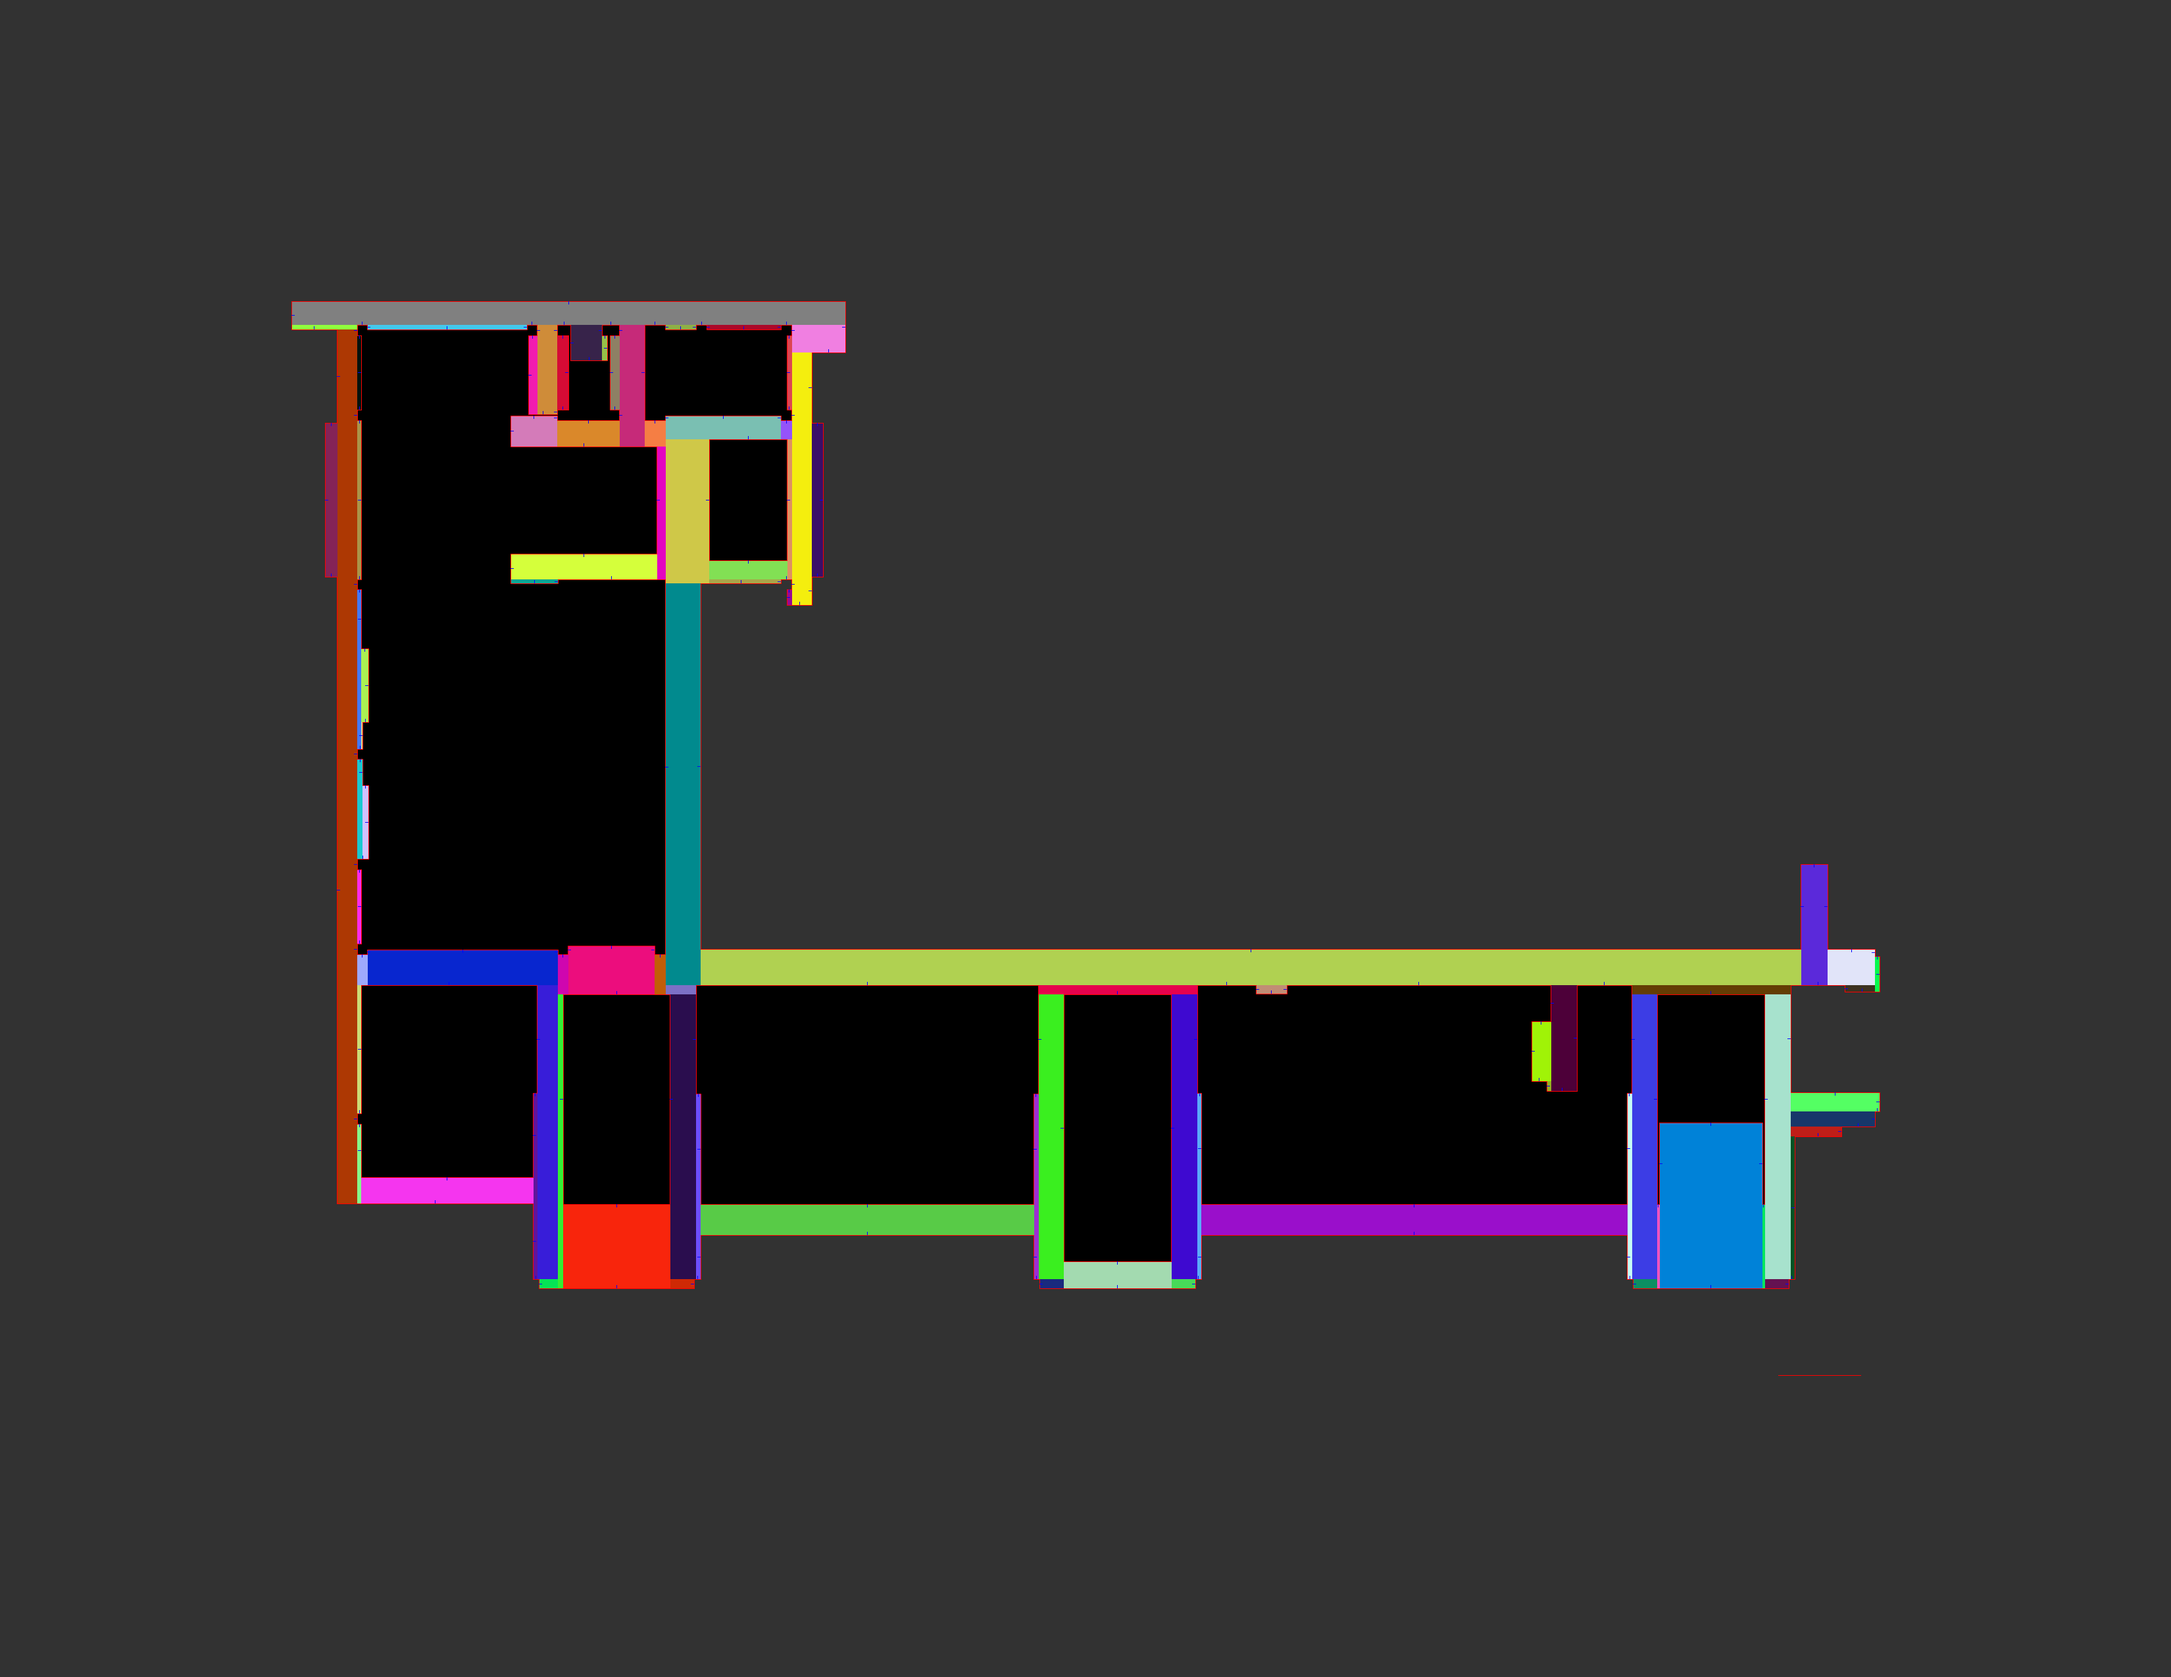
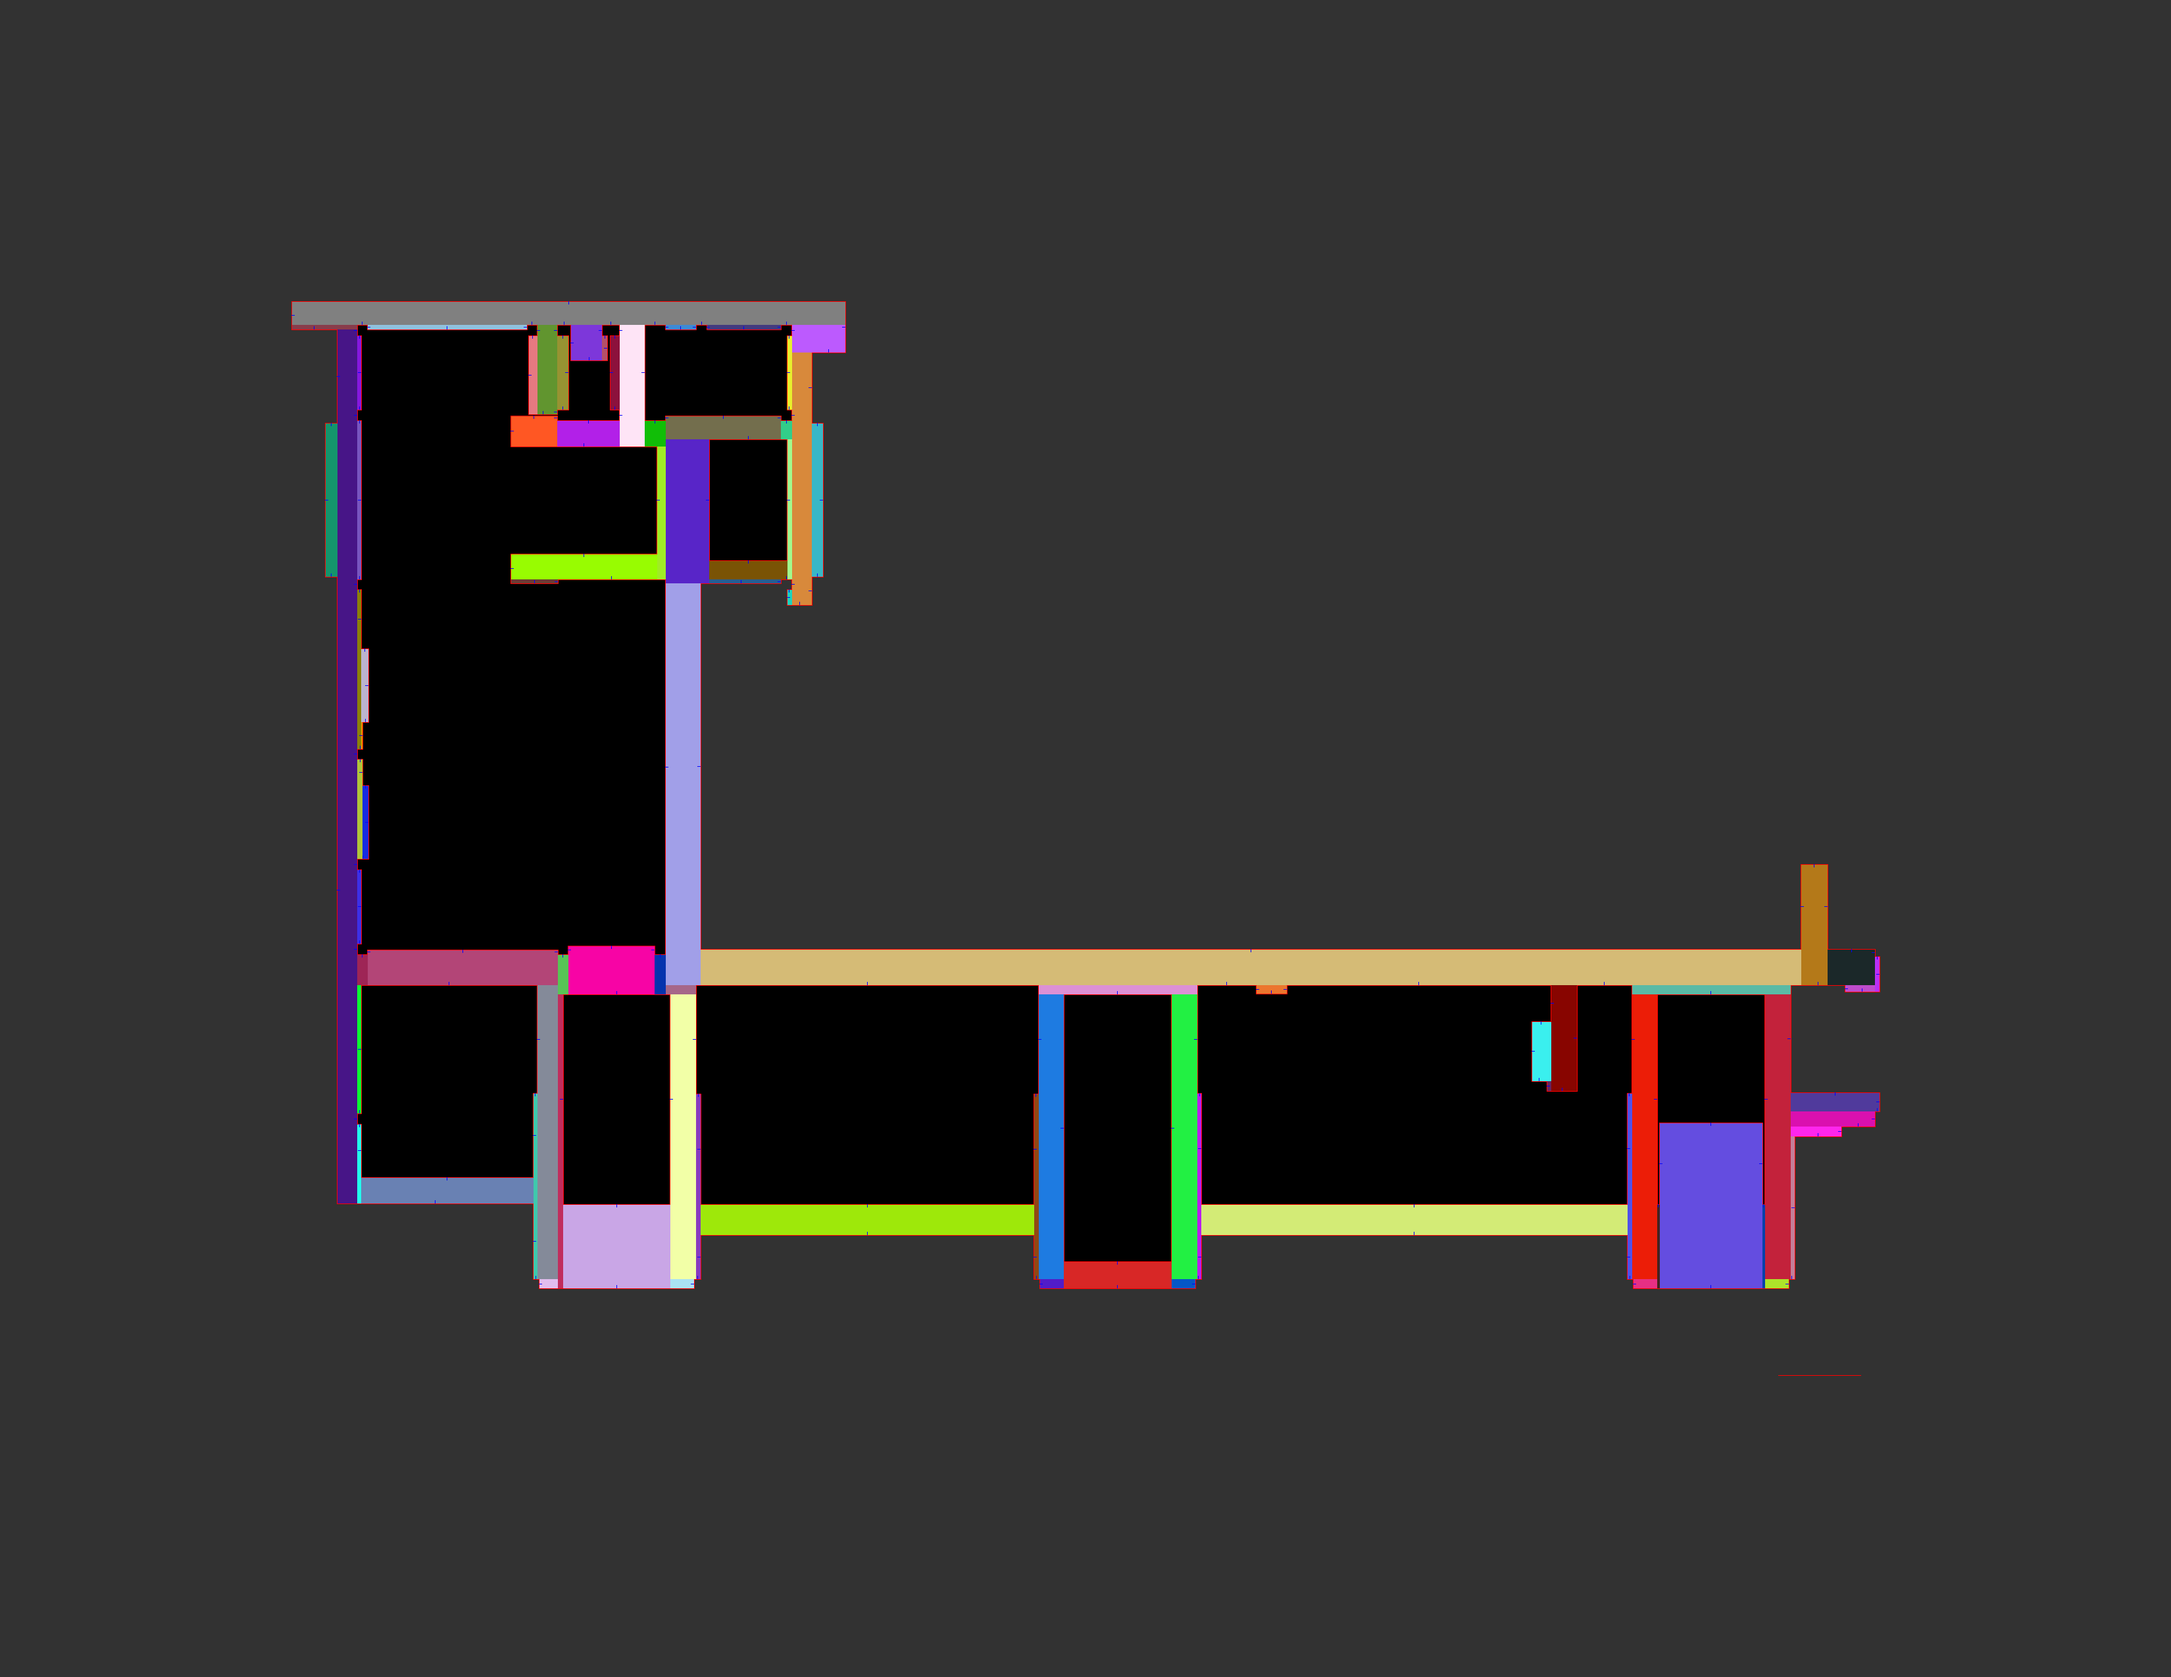
- Added separate floor plane

Changed region(s): [[0.1248, 0.1859, 0.8739, 0.7745]]

diff --git a/sim/SDFGenerator.py b/sim/SDFGenerator.py
@@ -3,8 +3,6 @@ from lxml import etree
 
 # Splitting up the responsibilities for the MeshGenerator.Generator so it doesn't become a God object anti-pattern
 pose_template = "{} {} {} {} {} {}"
-normal_template = "{} {} {}"
-size_template = "{} {}"
 wall_template = "wall_{}"
 vec2_template = "{} {}"
 vec3_template = "{} {} {}"
@@ -27,8 +25,10 @@ class SDFGenerator:
         self.sdf = etree.Element("sdf", version="1.6")
         self.world = etree.Element("world", name="building_model")
         self.walls_model = etree.Element("model", name="walls")
+        self.floor_model = etree.Element("model", name="floors")
         self.sdf.append(self.world)
         self.world.append(self.walls_model)
+        self.world.append(self.floor_model)
         self.wall_count = 0
 
     def write_file(self):
@@ -39,7 +39,7 @@ class SDFGenerator:
     def add_walls(self, centre, walls_obj_file):
         self.walls_model.append(create_element("static", _text="1"))
         self.walls_model.append(create_element("pose", frame="walls_frame",
-                                               _text=pose_template.format(centre[0]+350., centre[1]-200., centre[2], 0., 0., 0.)))
+                                               _text=pose_template.format(centre[0]+350./32, centre[1]-200./32, centre[2], 0., 0., 0.)))
 
         # Write the visual link
         link = create_element("link", name="walls_link")
@@ -52,12 +52,12 @@ class SDFGenerator:
         # Add the inertia tensor
         inertia = create_element("inertia")
         inertial.append(inertia)
-        inertia.append(create_element("ixx", _text="0.166667"))
+        inertia.append(create_element("ixx", _text="1."))
         inertia.append(create_element("ixy", _text="0."))
         inertia.append(create_element("ixz", _text="0."))
-        inertia.append(create_element("iyy", _text="0.166667"))
+        inertia.append(create_element("iyy", _text="1."))
         inertia.append(create_element("iyz", _text="0."))
-        inertia.append(create_element("izz", _text="0.166667"))
+        inertia.append(create_element("izz", _text="1."))
 
         visual = create_element("visual", name="walls_mesh")
         link.append(visual)
@@ -65,7 +65,7 @@ class SDFGenerator:
         visual.append(geometry)
         mesh = create_element("mesh")
         geometry.append(mesh)
-        scale = 4000.
+        scale = 125.
         mesh.append(create_element("scale", _text=vec3_template.format(scale, scale, scale)))
         mesh.append(create_element("uri", _text=walls_obj_file))
 
@@ -79,7 +79,7 @@ class SDFGenerator:
         collision.append(geometry)
         mesh = create_element("mesh")
         geometry.append(mesh)
-        scale = 4000.
+        scale = 125.
         mesh.append(create_element("scale", _text=vec3_template.format(scale, scale, scale)))
         mesh.append(create_element("uri", _text=walls_obj_file))
 
@@ -105,12 +105,12 @@ class SDFGenerator:
 
         inertia = create_element("inertia")
         inertial.append(inertia)
-        inertia.append(create_element("ixx", _text="0.166667"))
+        inertia.append(create_element("ixx", _text="1."))
         inertia.append(create_element("ixy", _text="0."))
         inertia.append(create_element("ixz", _text="0."))
-        inertia.append(create_element("iyy", _text="0.166667"))
+        inertia.append(create_element("iyy", _text="1."))
         inertia.append(create_element("iyz", _text="0."))
-        inertia.append(create_element("izz", _text="0.166667"))
+        inertia.append(create_element("izz", _text="1."))
 
         collision = create_element("collision", name=name+"_collision")
         link.append(collision)
@@ -118,18 +118,18 @@ class SDFGenerator:
         collision.append(geometry)
         plane = create_element("plane")
         geometry.append(plane)
-        plane.append(create_element("normal", _text=normal_template.format(normal[0], normal[1], 0)))
-        plane.append(create_element("size", _text=size_template.format(dim[0], dim[1])))
+        plane.append(create_element("normal", _text=vec3_template.format(normal[0], normal[1], 0)))
+        plane.append(create_element("size", _text=vec2_template.format(dim[0], dim[1])))
         self.wall_count += 1
 
     def add_floors(self, centre, normal, dim, floor_obj_file):
-        self.floors_model.append(create_element("static", _text="1"))
-        self.floors_model.append(create_element("pose", frame="floors_frame",
+        self.floor_model.append(create_element("static", _text="1"))
+        self.floor_model.append(create_element("pose", frame="floors_frame",
                                                 _text=pose_template.format(centre[0], centre[1], centre[2], 0., 0., 0.)))
 
         # Write the visual link
         link = create_element("link", name="floors_link")
-        self.floors_model.append(link)
+        self.floor_model.append(link)
         inertial = create_element("inertial")
         link.append(inertial)
 
@@ -138,22 +138,31 @@ class SDFGenerator:
         # Add the inertia tensor
         inertia = create_element("inertia")
         inertial.append(inertia)
-        inertia.append(create_element("ixx", _text="0.166667"))
+        inertia.append(create_element("ixx", _text="1."))
         inertia.append(create_element("ixy", _text="0."))
         inertia.append(create_element("ixz", _text="0."))
-        inertia.append(create_element("iyy", _text="0.166667"))
+        inertia.append(create_element("iyy", _text="1."))
         inertia.append(create_element("iyz", _text="0."))
-        inertia.append(create_element("izz", _text="0.166667"))
+        inertia.append(create_element("izz", _text="1."))
 
-        visual = create_element("visual", name="floors_mesh")
+        #visual = create_element("visual", name="floors_mesh")
+        #link.append(visual)
+        #geometry = create_element("geometry")
+        #visual.append(geometry)
+        #mesh = create_element("mesh")
+        #geometry.append(mesh)
+        #scale = 1.
+        #mesh.append(create_element("scale", _text=vec3_template.format(scale, scale, scale)))
+        #mesh.append(create_element("uri", _text=floor_obj_file))
+
+        visual = create_element("visual", name="floor")
         link.append(visual)
         geometry = create_element("geometry")
         visual.append(geometry)
-        mesh = create_element("mesh")
-        geometry.append(mesh)
-        scale = 1.
-        mesh.append(create_element("scale", _text=vec3_template.format(scale, scale, scale)))
-        mesh.append(create_element("uri", _text=floor_obj_file))
+        plane = create_element("plane")
+        geometry.append(plane)
+        plane.append(create_element("normal", _text=vec3_template.format(normal[0], normal[1], normal[2])))
+        plane.append(create_element("size", _text=vec2_template.format(dim[0], dim[1])))
 
         collision = create_element("collision", name="floors_collision")
         link.append(collision)
@@ -161,8 +170,8 @@ class SDFGenerator:
         collision.append(geometry)
         plane = create_element("plane")
         geometry.append(plane)
-        plane.append(create_element("normal", _text=normal_template.format(normal[0], normal[1], normal[2])))
-        plane.append(create_element("size", _text=size_template.format(dim[0], dim[1])))
+        plane.append(create_element("normal", _text=vec3_template.format(normal[0], normal[1], normal[2])))
+        plane.append(create_element("size", _text=vec2_template.format(dim[0], dim[1])))
 
     def add_extra(self):
         """This extra stuff is required to load the SDF into Gazebo for testing"""

diff --git a/sim/MeshGenerator.py b/sim/MeshGenerator.py
@@ -695,10 +695,12 @@ class Generator:
     def export_to_sdf(self, filename="assets/output.sdf"):
         sdf = SDFGenerator.SDFGenerator(filename)
         sdf.add_walls([0, 0, 0], self.strip_name(filename) + ".obj")
+        sdf.add_floors([0, 0, 0], [0, 0, 1], [self.size[0], self.size[1]], self.strip_name(filename) + ".obj")
 
-        dim = max(self.size[0], self.size[1])
-        inv_dim = 1./dim
-        wall_height = inv_dim * 40.
+
+        #dim = max(self.size[0], self.size[1])
+        #inv_dim = 1./dim
+        #wall_height = inv_dim * 40.
 
         # Export Walls
         #for i in range(len(self.lines)):
@@ -711,6 +713,6 @@ class Generator:
 
         # Export Floors
         #sdf.add_floors([0, 0, 0], [0, 0, 1], [self.size[0], self.size[1]], self.strip_name(filename) + ".obj")
-        sdf.add_extra()         # This is possibly only required for gazebo
+        #sdf.add_extra()         # This is possibly only required for gazebo
 
         sdf.write_file()

diff --git a/sim/simulation/environment/simulationTest.py b/sim/simulation/environment/simulationTest.py
@@ -5,8 +5,6 @@ currentdir = os.path.dirname(os.path.abspath(inspect.getfile(inspect.currentfram
 parentdir = os.path.dirname(os.path.dirname(currentdir))
 os.sys.path.insert(0, parentdir)
 
-#from pybullet_envs.bullet.racecarGymEnv import RacecarGymEnv
-
 from simulation.environment.simulation_env import SimRobotEnv
 
 isDiscrete = False
